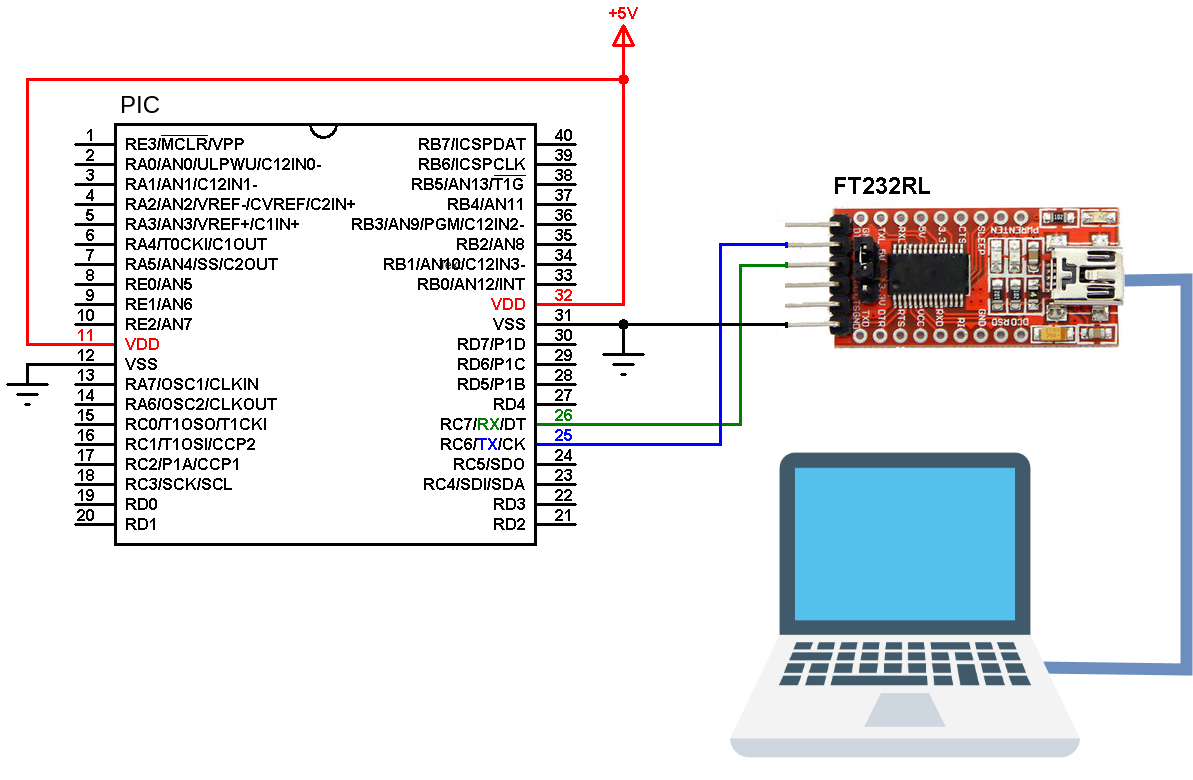
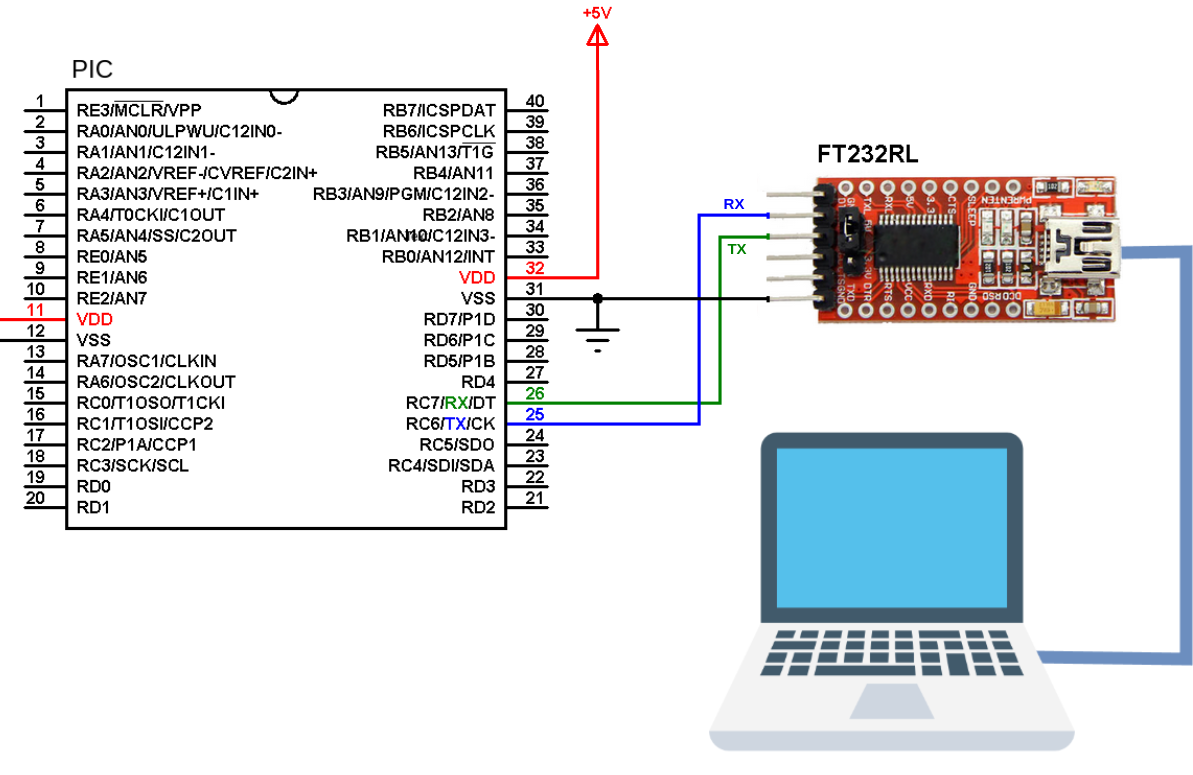
Update labs

Changed region(s): [[0.0, 0.0, 1.0, 0.96], [0.5893, 0.929, 0.6203, 0.991]]

diff --git a/labs/07_lab07/README.md b/labs/07_lab07/README.md
@@ -1,9 +1,47 @@
 # Lab07: Visualización en LCD 16x2 usando módulo I2C en microcontrolador PIC
 
-![i2c](/laboratorios/figs/lab04/i2c.png)
+## 1. Objetivos de aprendizale
 
-    La pantalla LCD $16\times2$ se controlará en este laboratorio mediante el protocolo I2C utilizando un expansor de puertos ```PCF8574```. Este enfoque reduce la cantidad de pines necesarios para la conexión, ya que utiliza únicamente dos líneas: ```SDA``` (datos) y ```SCL``` (reloj). El módulo suele tener una dirección base de $7$ bits igual a $0\times27$. Sin embargo, en el protocolo I2C, la dirección que se transmite al bus debe tener $8$ bits, donde el último bit indica si se va a leer ($1$) o escribir ($0$). Como en este caso solo se realiza escritura hacia el LCD, la dirección efectiva enviada es $0\times4E$, que resulta de desplazar $0\times27$ una posición a la izquierda ($0\times27 << 1 $). Esta dirección ya se encuentra definida en el código como:
+1. Configurar el módulo I2C (```MSSP```) del ```PIC18F45K22``` en modo maestro.
 
-    ```
-    #define LCD_ADDR 0x4E
-    ```
+2. Comunicar el PIC con una LCD $16×2$ utilizando el adaptador basado en **PCF8574**.
+
+3. Implementar funciones para enviar comandos y caracteres vía **I2C**.
+
+4. Mostrar mensajes en la pantalla LCD desde el programa principal.
+
+
+## 2. Materiales
+
+1. PIC18F45K22 o cualquier PIC compatible.
+
+2. Programador/debugger PICkit 3/4.
+
+3. Fuente de alimentación (o PICkit 3/4).
+
+4. LCD $16×2$.
+
+5. Módulo I2C **PCF8574**.
+
+6. Entorno de programación MPLAB X IDE con compilador XC8.
+
+
+
+## 3. Fundamento teórico
+
+![i2c](/labs/figs/lab07/i2c.png)
+
+La pantalla LCD $16\times2$ se controlará en este laboratorio mediante el protocolo I2C utilizando un expansor de puertos **`PCF8574**. Este enfoque reduce la cantidad de pines necesarios para la conexión, ya que utiliza únicamente dos líneas: ```SDA``` (datos) y ```SCL``` (reloj). 
+
+El PIC18F45K22 cuenta con el módulo MSSP (Master Synchronous Serial Port), capaz de trabajar en protocolos **SPI** e **I2C**. Entonces, en este laboratorio se usa en modo **I2C** Maestro para enviar datos al módulo LCD **`PCF8574**.
+
+El módulo **`PCF8574** suele tener una dirección base de $7$ bits igual a $0\times27$. Sin embargo, en el protocolo **I2C**, la dirección que se transmite al bus debe tener $8$ bits, donde el último bit indica si se va a leer ($1$) o escribir ($0$). Como en este caso solo se realiza escritura hacia el LCD, la dirección efectiva enviada es $0\times4E$, que resulta de desplazar $0\times27$ una posición a la izquierda ($0\times27 << 1 $). Esta dirección ya se encuentra definida en el código como:
+
+```
+#define LCD_ADDR 0x4E
+```
+
+**¿Por qué usar I2C con la LCD?**
+
+* Sin I2C → la LCD requiere $6$ a $8$ pines del microcontrolador.
+* Con I2C → solo se requieren $2$ pines: ```SCL``` (```RC3```) y ```SCL``` (```RC4```).

diff --git a/labs/06_lab06/README.md b/labs/06_lab06/README.md
@@ -18,11 +18,18 @@
 
 2. Fuente de alimentación (o PICkit 3/4).
 
-3. Conversor USB a serial UART (por ejemplo el CP2102).
+3. Conversor USB a serial UART.
+
+    <p align="center">
+    <img src="/labs/figs/lab06/conversor_serial.png" alt="alt text" width=600 >
+</p>
 
 4. Cable de conexión entre el conversor y el PC.
 
 5. Software de terminal serial (puede usar PuTTY, Tera Term, o cualquier terminal de comunicación serial).
+
+6. MPLAB X + XC8.
+
 
 
 ## Fundamento teórico
